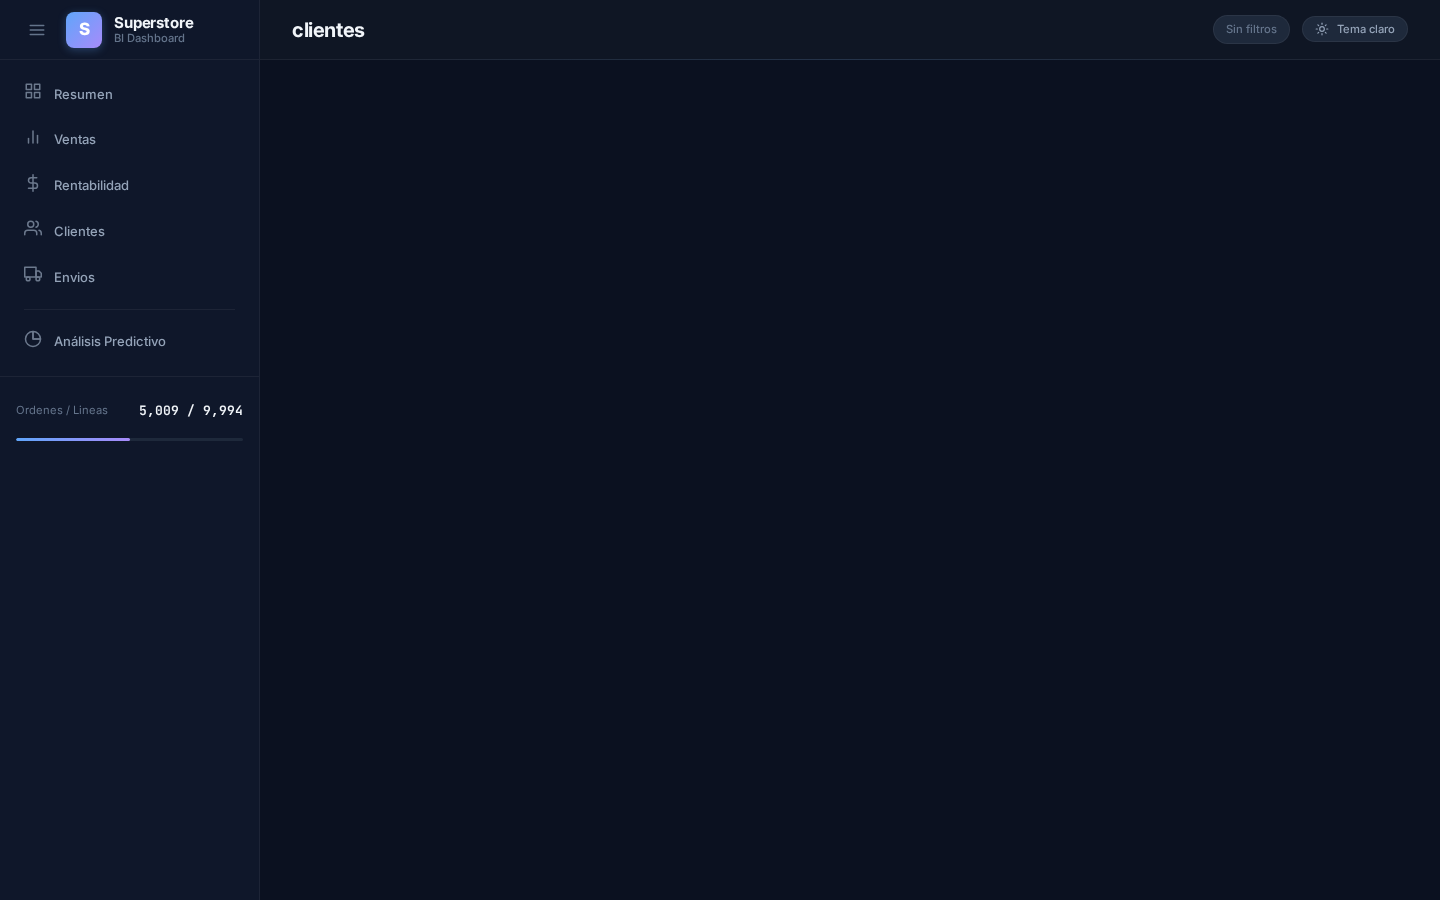
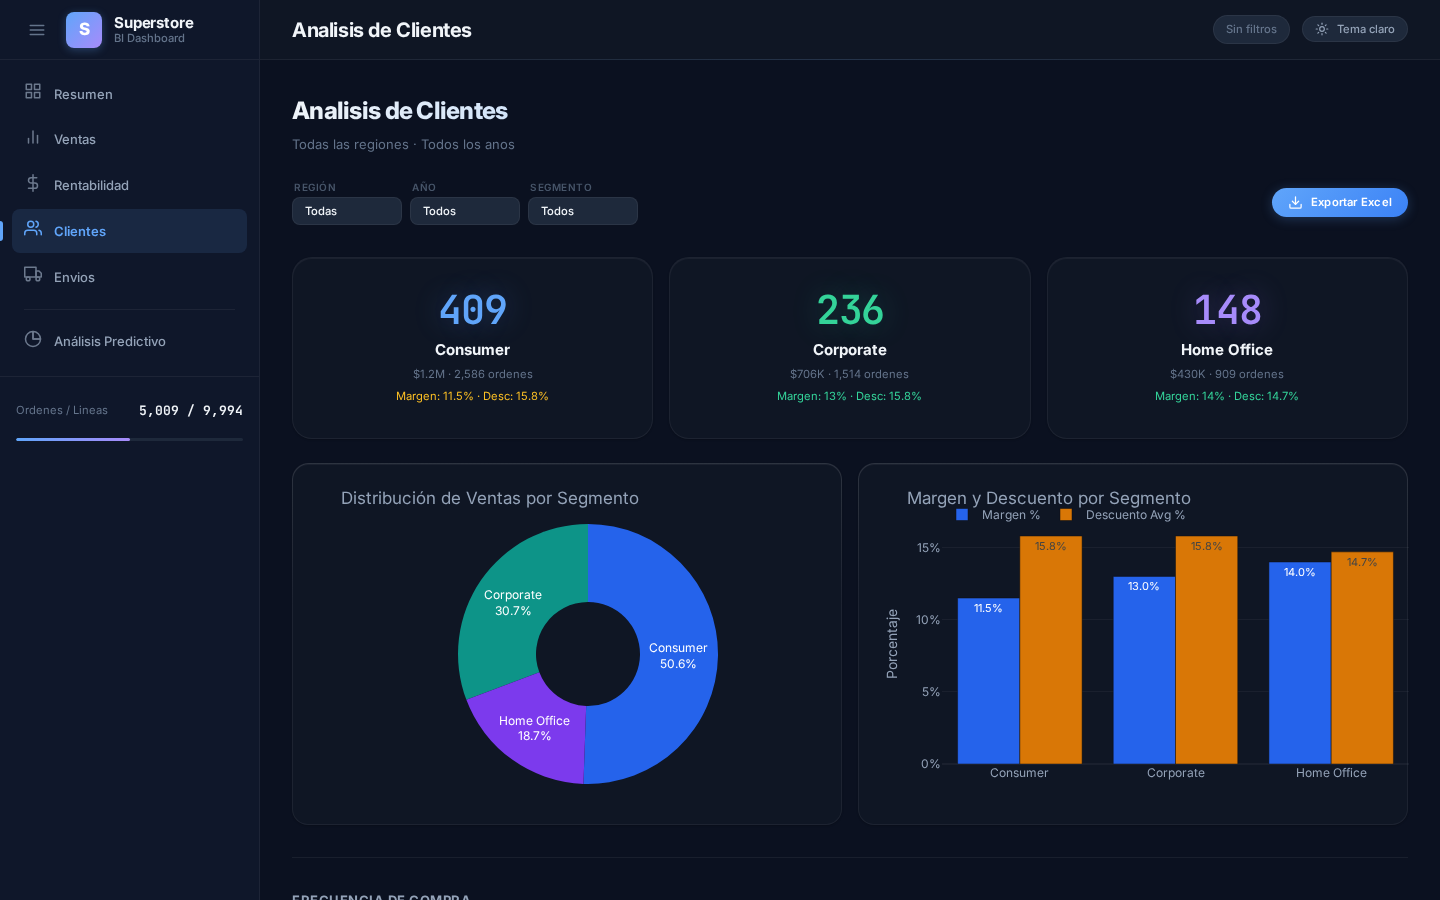
fix: regenerate screenshots with real chart data

diff --git a/scripts/screenshots.py b/scripts/screenshots.py
@@ -1,13 +1,13 @@
-"""Take screenshots of each dashboard module for the README."""
+"""Take full-page screenshots with correct English hash routes."""
 import asyncio
 from playwright.async_api import async_playwright
 
 PAGES = [
-    ("overview",  "01-overview"),
-    ("ventas",    "02-ventas"),
-    ("rentabilidad", "03-rentabilidad"),
-    ("clientes",  "04-clientes"),
-    ("envios",    "05-envios"),
+    ("overview",      "01-overview"),
+    ("sales",         "02-ventas"),
+    ("profitability", "03-rentabilidad"),
+    ("customers",     "04-clientes"),
+    ("shipping",      "05-envios"),
 ]
 
 ML_TABS = [
@@ -19,26 +19,39 @@ ML_TABS = [
     ("predictor",  "11-ml-predictor"),
 ]
 
+async def screenshot_page(page, url, name):
+    await page.goto(url, wait_until="networkidle", timeout=15000)
+    await asyncio.sleep(3)
+    for _ in range(30):
+        plots = await page.locator(".js-plotly-plot, .kpi-card, .seg-card, .alert-card, table, .predictor-gauge").count()
+        if plots > 3:
+            break
+        await asyncio.sleep(1)
+    await asyncio.sleep(3)
+    await page.screenshot(path=f"screenshots/{name}.png", full_page=True)
+
 async def main():
     async with async_playwright() as p:
-        browser = await p.chromium.launch()
+        browser = await p.chromium.launch(headless=True)
         page = await browser.new_page(viewport={"width": 1440, "height": 900})
 
         for route, name in PAGES:
-            await page.goto(f"http://localhost:8000/#{route}", wait_until="networkidle")
-            await asyncio.sleep(3)
-            await page.screenshot(path=f"screenshots/{name}.png", full_page=False)
+            await screenshot_page(page, f"http://localhost:8000/#{route}", name)
 
-        # ML page with different tabs
-        await page.goto("http://localhost:8000/#ml", wait_until="networkidle")
-        await asyncio.sleep(3)
+        await screenshot_page(page, "http://localhost:8000/#ml", "06-ml-rfm")
 
-        for tab, name in ML_TABS:
+        for tab, name in ML_TABS[1:]:
             btn = page.locator(f"button.ml-tab[data-ml='{tab}']")
             if await btn.count() > 0:
                 await btn.click()
+                await asyncio.sleep(2)
+                for _ in range(15):
+                    plots = await page.locator(".js-plotly-plot, .kpi-card, .predictor-gauge, table").count()
+                    if plots > 0:
+                        break
+                    await asyncio.sleep(1)
                 await asyncio.sleep(3)
-            await page.screenshot(path=f"screenshots/{name}.png", full_page=False)
+            await page.screenshot(path=f"screenshots/{name}.png", full_page=True)
 
         await browser.close()
 

diff --git a/README.md b/README.md
@@ -2,12 +2,10 @@
 
 **Grupo 5**
 
-| Integrante           | Rol |
-| -------------------- | --- |
-| Azul Huilahuaña      | —   |
-| Lizandro Mendoza     | —   |
-| Diego Torres         | —   |
-| Walter Vilca         | —   |
+- Lizandro Mendoza
+- Azul Huilahuaña
+- Diego Torres
+- Walter Vilca
 
 Dashboard analítico para la cadena de suministro Superstore, construido con
 **FastAPI** + **Plotly** + **PostgreSQL** siguiendo la metodología **Kimball DW/BI**.
